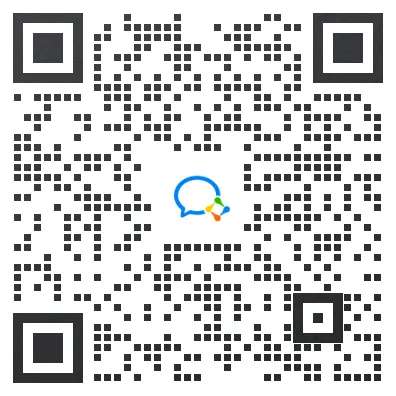
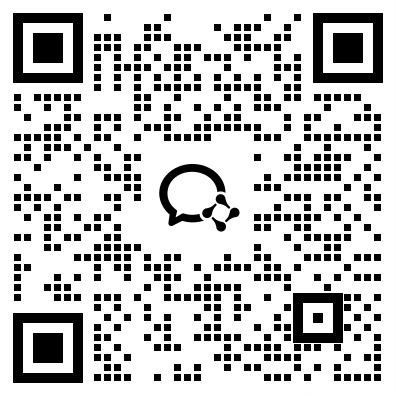
docs:更换客服二维码

diff --git a/docs/enterprise/index.md b/docs/enterprise/index.md
@@ -10,7 +10,7 @@ AingDesk 完全免费使用，没有任何限制或隐藏限制。
 
 ## Let’s Talk
 如果您对 AingDesk 企业版感兴趣，欢迎联系我们告知您的需求和团队规模，我们将为您提供更好的支持和解决方案。
-![联系我们](img/contact.png)
+![联系我们](img/contact.png)![alt text](cbba1bd1addebeff8329524686e7ab44.png)
 
 ## 企业服务
 ### 完全可定制化
